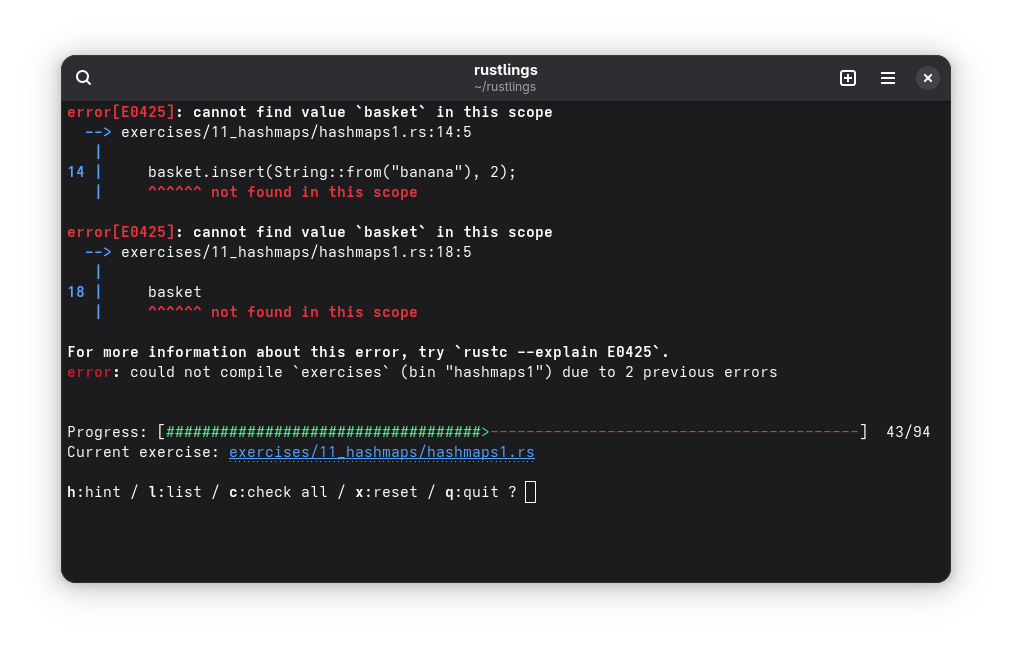
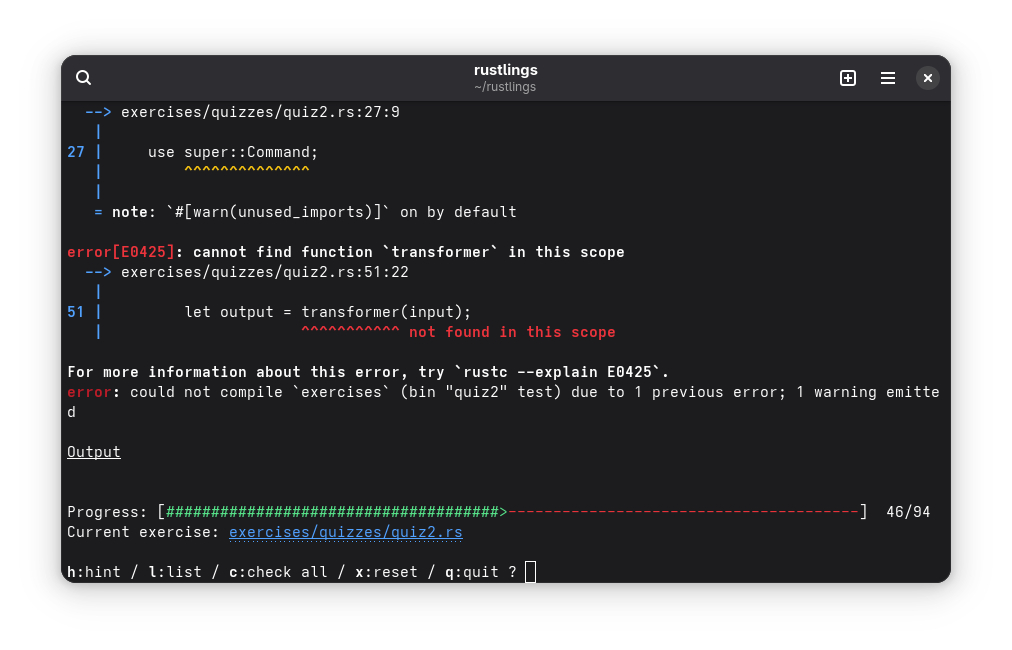
almost halfway

diff --git a/solutions/11_hashmaps/hashmaps2.rs b/solutions/11_hashmaps/hashmaps2.rs
@@ -1,4 +1,96 @@
+// We're collecting different fruits to bake a delicious fruit cake. For this,
+// we have a basket, which we'll represent in the form of a hash map. The key
+// represents the name of each fruit we collect and the value represents how
+// many of that particular fruit we have collected. Three types of fruits -
+// Apple (4), Mango (2) and Lychee (5) are already in the basket hash map. You
+// must add fruit to the basket so that there is at least one of each kind and
+// more than 11 in total - we have a lot of mouths to feed. You are not allowed
+// to insert any more of the fruits that are already in the basket (Apple,
+// Mango, and Lychee).
+
+use std::collections::HashMap;
+
+#[derive(Hash, PartialEq, Eq, Debug)]
+enum Fruit {
+    Apple,
+    Banana,
+    Mango,
+    Lychee,
+    Pineapple,
+}
+
+fn fruit_basket(basket: &mut HashMap<Fruit, u32>) {
+    let fruit_kinds = [
+        Fruit::Apple,
+        Fruit::Banana,
+        Fruit::Mango,
+        Fruit::Lychee,
+        Fruit::Pineapple,
+    ];
+
+    for fruit in fruit_kinds {
+        // If fruit doesn't exist, insert it with some value.
+        basket.entry(fruit).or_insert(5);
+    }
+}
+
 fn main() {
-    // DON'T EDIT THIS SOLUTION FILE!
-    // It will be automatically filled after you finish the exercise.
+    // You can optionally experiment here.
+}
+
+#[cfg(test)]
+mod tests {
+    use super::*;
+
+    // Don't modify this function!
+    fn get_fruit_basket() -> HashMap<Fruit, u32> {
+        let content = [(Fruit::Apple, 4), (Fruit::Mango, 2), (Fruit::Lychee, 5)];
+        HashMap::from_iter(content)
+    }
+
+    #[test]
+    fn test_given_fruits_are_not_modified() {
+        let mut basket = get_fruit_basket();
+        fruit_basket(&mut basket);
+        assert_eq!(*basket.get(&Fruit::Apple).unwrap(), 4);
+        assert_eq!(*basket.get(&Fruit::Mango).unwrap(), 2);
+        assert_eq!(*basket.get(&Fruit::Lychee).unwrap(), 5);
+    }
+
+    #[test]
+    fn at_least_five_types_of_fruits() {
+        let mut basket = get_fruit_basket();
+        fruit_basket(&mut basket);
+        let count_fruit_kinds = basket.len();
+        assert!(count_fruit_kinds >= 5);
+    }
+
+    #[test]
+    fn greater_than_eleven_fruits() {
+        let mut basket = get_fruit_basket();
+        fruit_basket(&mut basket);
+        let count = basket.values().sum::<u32>();
+        assert!(count > 11);
+    }
+
+    #[test]
+    fn all_fruit_types_in_basket() {
+        let fruit_kinds = [
+            Fruit::Apple,
+            Fruit::Banana,
+            Fruit::Mango,
+            Fruit::Lychee,
+            Fruit::Pineapple,
+        ];
+
+        let mut basket = get_fruit_basket();
+        fruit_basket(&mut basket);
+
+        for fruit_kind in fruit_kinds {
+            let Some(amount) = basket.get(&fruit_kind) else {
+                panic!("Fruit kind {fruit_kind:?} was not found in basket");
+            };
+            assert!(*amount > 0);
+        }
+    }
 }

diff --git a/solutions/11_hashmaps/hashmaps3.rs b/solutions/11_hashmaps/hashmaps3.rs
@@ -1,4 +1,85 @@
+// A list of scores (one per line) of a soccer match is given. Each line is of
+// the form "<team_1_name>,<team_2_name>,<team_1_goals>,<team_2_goals>"
+// Example: "England,France,4,2" (England scored 4 goals, France 2).
+//
+// You have to build a scores table containing the name of the team, the total
+// number of goals the team scored, and the total number of goals the team
+// conceded.
+
+use std::collections::HashMap;
+
+// A structure to store the goal details of a team.
+#[derive(Default)]
+struct TeamScores {
+    goals_scored: u8,
+    goals_conceded: u8,
+}
+
+fn build_scores_table(results: &str) -> HashMap<&str, TeamScores> {
+    // The name of the team is the key and its associated struct is the value.
+    let mut scores = HashMap::<&str, TeamScores>::new();
+
+    for line in results.lines() {
+        let mut split_iterator = line.split(',');
+        // NOTE: We use `unwrap` because we didn't deal with error handling yet.
+        let team_1_name = split_iterator.next().unwrap();
+        let team_2_name = split_iterator.next().unwrap();
+        let team_1_score: u8 = split_iterator.next().unwrap().parse().unwrap();
+        let team_2_score: u8 = split_iterator.next().unwrap().parse().unwrap();
+
+        // Insert the default with zeros if a team doesn't exist yet.
+        let team_1 = scores.entry(team_1_name).or_default();
+        // Update the values.
+        team_1.goals_scored += team_1_score;
+        team_1.goals_conceded += team_2_score;
+
+        // Similarly for the second team.
+        let team_2 = scores.entry(team_2_name).or_default();
+        team_2.goals_scored += team_2_score;
+        team_2.goals_conceded += team_1_score;
+    }
+
+    scores
+}
+
 fn main() {
-    // DON'T EDIT THIS SOLUTION FILE!
-    // It will be automatically filled after you finish the exercise.
+    // You can optionally experiment here.
+}
+
+#[cfg(test)]
+mod tests {
+    use super::*;
+
+    const RESULTS: &str = "England,France,4,2
+France,Italy,3,1
+Poland,Spain,2,0
+Germany,England,2,1
+England,Spain,1,0";
+
+    #[test]
+    fn build_scores() {
+        let scores = build_scores_table(RESULTS);
+
+        assert!(
+            ["England", "France", "Germany", "Italy", "Poland", "Spain"]
+                .into_iter()
+                .all(|team_name| scores.contains_key(team_name))
+        );
+    }
+
+    #[test]
+    fn validate_team_score_1() {
+        let scores = build_scores_table(RESULTS);
+        let team = scores.get("England").unwrap();
+        assert_eq!(team.goals_scored, 6);
+        assert_eq!(team.goals_conceded, 4);
+    }
+
+    #[test]
+    fn validate_team_score_2() {
+        let scores = build_scores_table(RESULTS);
+        let team = scores.get("Spain").unwrap();
+        assert_eq!(team.goals_scored, 0);
+        assert_eq!(team.goals_conceded, 3);
+    }
 }

diff --git a/solutions/11_hashmaps/hashmaps1.rs b/solutions/11_hashmaps/hashmaps1.rs
@@ -1,4 +1,42 @@
+// A basket of fruits in the form of a hash map needs to be defined. The key
+// represents the name of the fruit and the value represents how many of that
+// particular fruit is in the basket. You have to put at least 3 different
+// types of fruits (e.g apple, banana, mango) in the basket and the total count
+// of all the fruits should be at least 5.
+
+use std::collections::HashMap;
+
+fn fruit_basket() -> HashMap<String, u32> {
+    // Declare the hash map.
+    let mut basket = HashMap::new();
+
+    // Two bananas are already given for you :)
+    basket.insert(String::from("banana"), 2);
+
+    // Put more fruits in your basket.
+    basket.insert(String::from("apple"), 3);
+    basket.insert(String::from("mango"), 1);
+
+    basket
+}
+
 fn main() {
-    // DON'T EDIT THIS SOLUTION FILE!
-    // It will be automatically filled after you finish the exercise.
+    // You can optionally experiment here.
+}
+
+#[cfg(test)]
+mod tests {
+    use super::*;
+
+    #[test]
+    fn at_least_three_types_of_fruits() {
+        let basket = fruit_basket();
+        assert!(basket.len() >= 3);
+    }
+
+    #[test]
+    fn at_least_five_fruits() {
+        let basket = fruit_basket();
+        assert!(basket.values().sum::<u32>() >= 5);
+    }
 }

diff --git a/exercises/11_hashmaps/hashmaps3.rs b/exercises/11_hashmaps/hashmaps3.rs
@@ -31,6 +31,10 @@ fn build_scores_table(results: &str) -> HashMap<&str, TeamScores> {
         // Keep in mind that goals scored by team 1 will be the number of goals
         // conceded by team 2. Similarly, goals scored by team 2 will be the
         // number of goals conceded by team 1.
+        let goals_t1 = scores.entry(team_1_name).or_insert(TeamScores{goals_scored: 0, goals_conceded: 0});
+        *goals_t1 = TeamScores{ goals_scored: goals_t1.goals_scored + team_1_score, goals_conceded: goals_t1.goals_conceded + team_2_score };
+        let goals_t2 = scores.entry(team_2_name).or_insert(TeamScores{goals_scored: 0, goals_conceded: 0});
+        *goals_t2 = TeamScores{ goals_scored: goals_t2.goals_scored + team_2_score, goals_conceded: goals_t2.goals_conceded + team_1_score };
     }
 
     scores

diff --git a/exercises/11_hashmaps/hashmaps1.rs b/exercises/11_hashmaps/hashmaps1.rs
@@ -9,9 +9,11 @@ use std::collections::HashMap;
 fn fruit_basket() -> HashMap<String, u32> {
     // TODO: Declare the hash map.
     // let mut basket =
-
+    let mut basket = HashMap::new();
     // Two bananas are already given for you :)
     basket.insert(String::from("banana"), 2);
+    basket.insert(String::from("apple"), 2);
+    basket.insert(String::from("tomato"), 1);
 
     // TODO: Put more fruits in your basket.
 

diff --git a/exercises/11_hashmaps/hashmaps2.rs b/exercises/11_hashmaps/hashmaps2.rs
@@ -32,6 +32,7 @@ fn fruit_basket(basket: &mut HashMap<Fruit, u32>) {
         // TODO: Insert new fruits if they are not already present in the
         // basket. Note that you are not allowed to put any type of fruit that's
         // already present!
+        basket.entry(fruit).or_insert(1);
     }
 }
 
